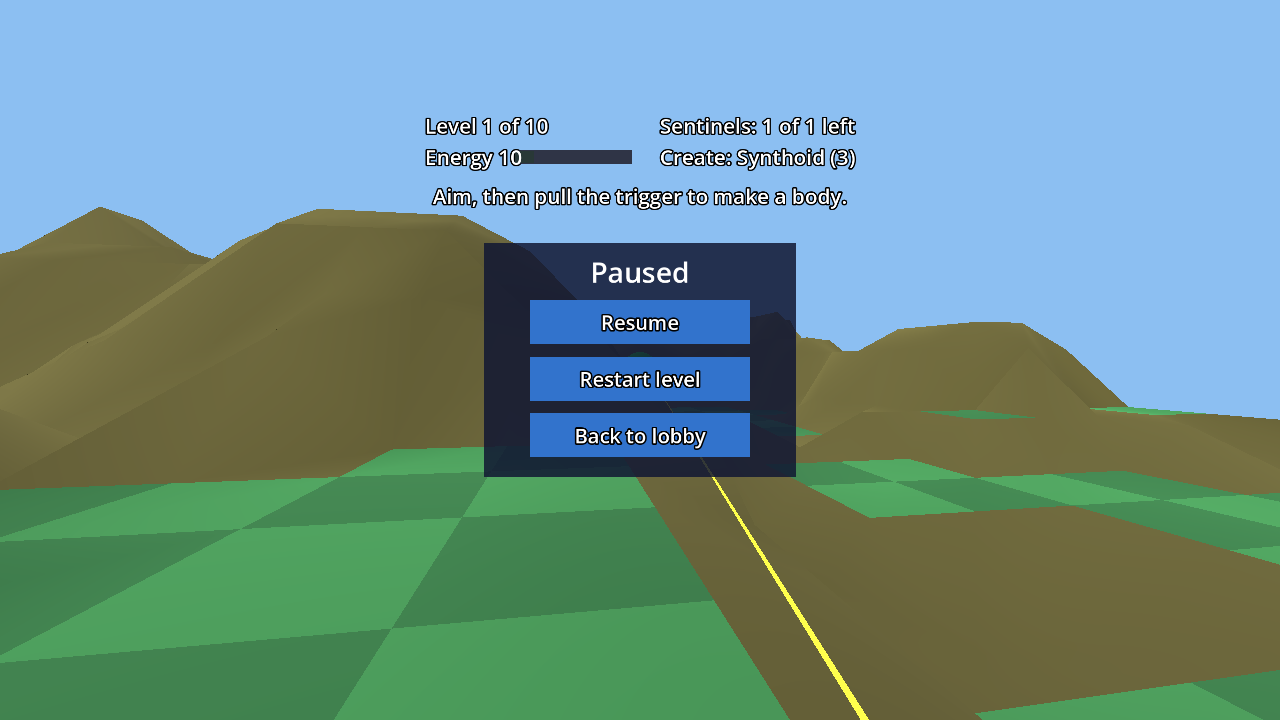
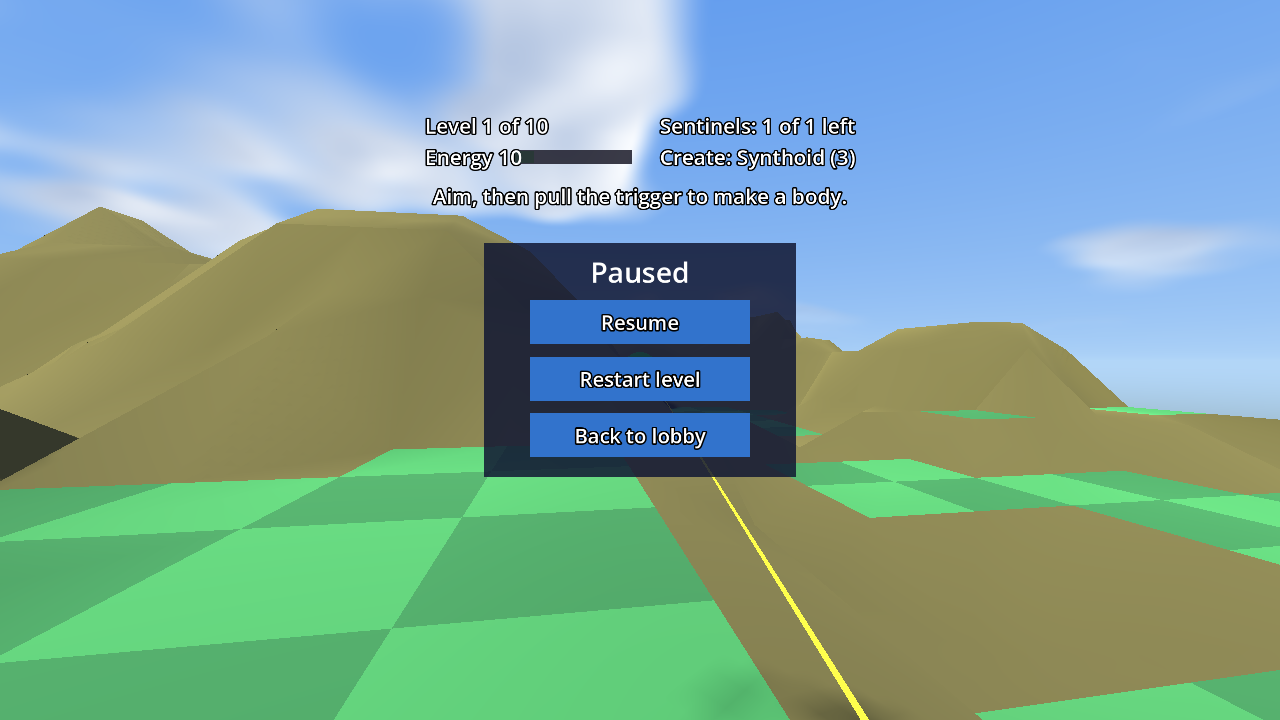
Richer sky: shader sky with drifting clouds and a sun disc; the sun casts shadows (AC-76)

diff --git a/docs/SPEC.md b/docs/SPEC.md
@@ -654,6 +654,15 @@ steps). AC-57 now also guarantees that sloped tiles exist.
   `eye_position().y` = h + 1.0 + 1.6, the boulder stays on T, and a plateau of
   height h + 2 two tiles away is visible from there but not from the tile T
   without the boulder.
+*Sky and sun (board finding)*
+
+- AC-76 (Scene) The lobby and every level use a shader sky (`scripts/sky.gdshader`:
+  blue gradient, soft clouds that drift with `TIME`, a sun disc where the light
+  points) that re-renders every frame, and a `Sun` DirectionalLight3D with
+  shadows on (one orthogonal cascade, 80 m, 2048 atlas: the Quest 2 budget), so
+  trees, Sentinels, synthoids and boulders cast shadows on the terrain. Tests
+  check the setup; how it looks and runs on a Quest 2 is not measured.
+
 *Lobby placement (board finding)*
 
 - AC-70 (Scene) At load the lobby panel is within 5 degrees of the camera's
@@ -807,4 +816,5 @@ fill the test file and test function when the test is written. Existing tests fo
 | AC-70 | `test_ac_70_lobby_panel_placement.gd` | `ac_70 ...` PASS lines |
 | AC-71 | `test_ac_logic.gd` | `ac_71_boulder_sees_over_step` |
 | AC-72 | `test_ac_logic.gd` | `ac_72_synthoid_on_boulder_eye` |
+| AC-76 | `test_ac_76_sky_and_sun.gd` | `ac_76 ...` PASS lines |
 | AC-73 | `test_ac_73_pause_menu_placement.gd` | `ac_73 ...` PASS lines |
